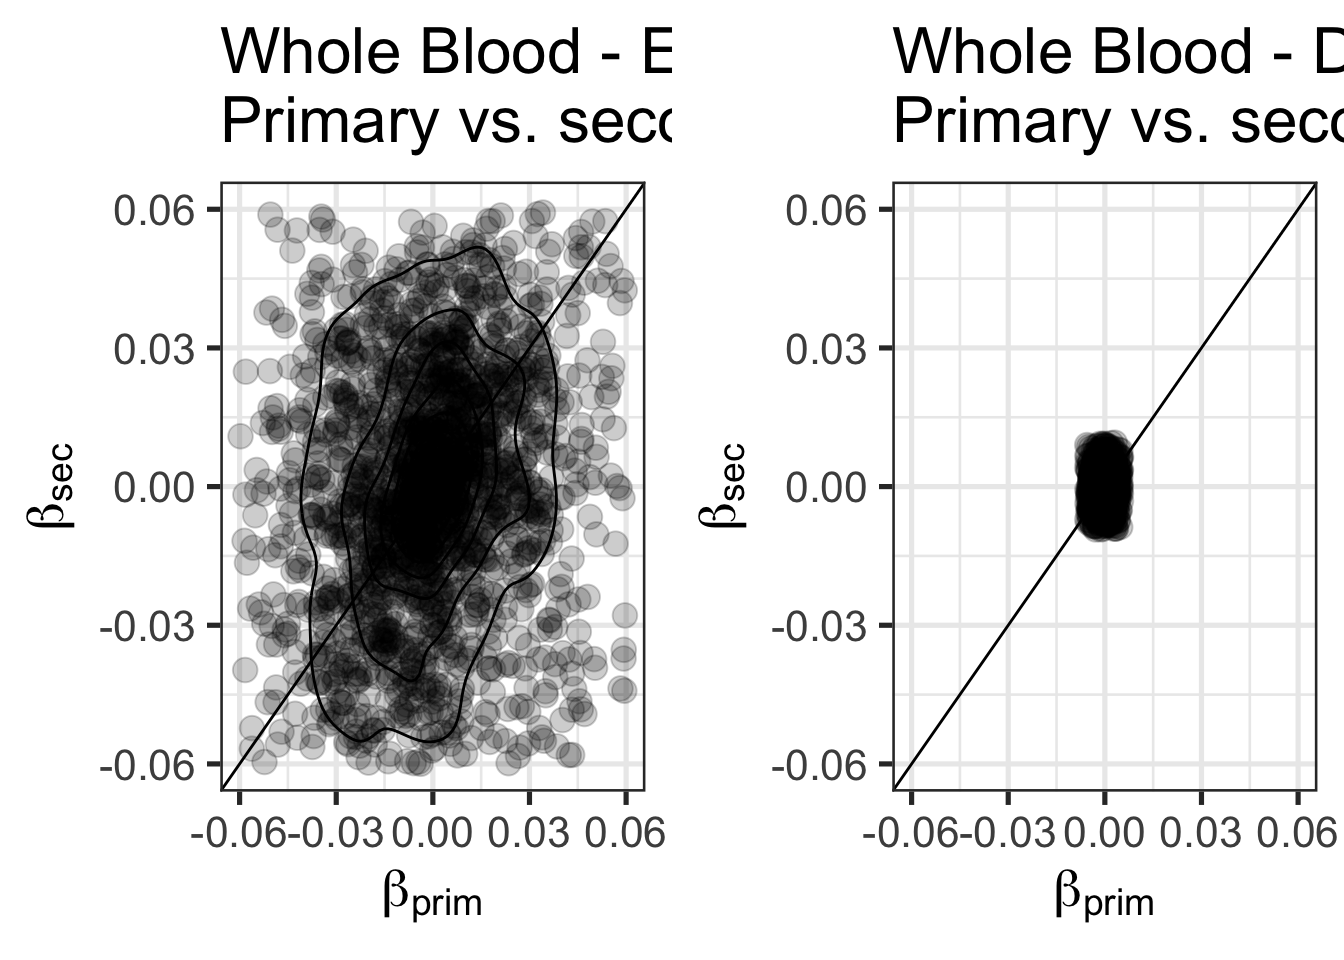
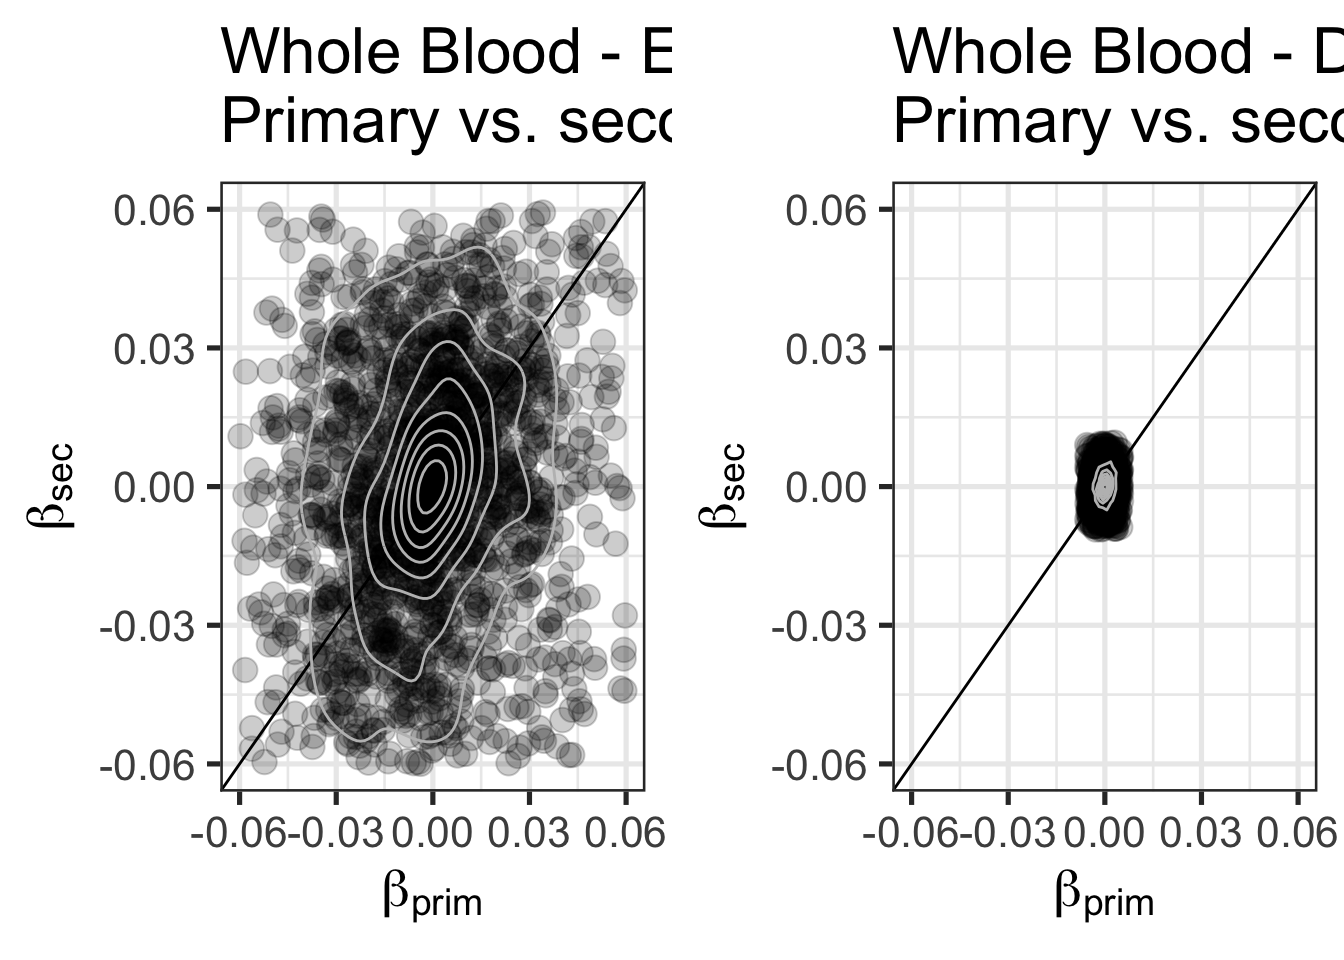
Build site.

diff --git a/docs/pvs_analysis.html b/docs/pvs_analysis.html
@@ -542,16 +542,18 @@ environment
 <div class="panel panel-default">
 <div class="panel-heading">
 <p class="panel-title">
-<a data-toggle="collapse" data-parent="#workflowr-checks" href="#strongRepositoryversionstrongahrefhttpsgithubcomzjiang2betaprimvssecanalysistree1f88d2b45fc6f5b5de1cef80d748de1b355ee6b3targetblank1f88d2ba"> <span class="glyphicon glyphicon-ok text-success" aria-hidden="true"></span> <strong>Repository version:</strong> <a href="https://github.com/zjiang2/beta_prim_vs_sec_analysis/tree/1f88d2b45fc6f5b5de1cef80d748de1b355ee6b3" target="_blank">1f88d2b</a> </a>
+<a data-toggle="collapse" data-parent="#workflowr-checks" href="#strongRepositoryversionstrongahrefhttpsgithubcomzjiang2betaprimvssecanalysistree7bd2afd681149880560d1907e4d31fd164a1457etargetblank7bd2afda"> <span class="glyphicon glyphicon-ok text-success" aria-hidden="true"></span> <strong>Repository version:</strong> <a href="https://github.com/zjiang2/beta_prim_vs_sec_analysis/tree/7bd2afd681149880560d1907e4d31fd164a1457e" target="_blank">7bd2afd</a> </a>
 </p>
 </div>
[2 lines of base64/hex data omitted]
 <div class="panel-body">
 <p>
 Great! You are using Git for version control. Tracking code development and connecting the code version to the results is critical for reproducibility. The version displayed above was the version of the Git repository at the time these results were generated. <br><br> Note that you need to be careful to ensure that all relevant files for the analysis have been committed to Git prior to generating the results (you can use <code>wflow_publish</code> or <code>wflow_git_commit</code>). workflowr only checks the R Markdown file, but you know if there are other scripts or data files that it depends on. Below is the status of the Git repository when the results were generated:
 </p>
 <pre><code>
-working directory clean
+Ignored files:
+    Ignored:    .Rproj.user/
+
 </code></pre>
 <p>
 Note that any generated files, e.g. HTML, png, CSS, etc., are not included in this status report because it is ok for generated content to have uncommitted changes.
@@ -589,6 +591,40 @@ Message
 </tr>
 </thead>
 <tbody>
+<tr>
+<td>
+Rmd
+</td>
+<td>
+<a href="https://github.com/zjiang2/beta_prim_vs_sec_analysis/blob/7bd2afd681149880560d1907e4d31fd164a1457e/analysis/pvs_analysis.Rmd" target="_blank">7bd2afd</a>
+</td>
+<td>
+zjiang2
+</td>
+<td>
+2019-08-06
+</td>
+<td>
+added qqplot, changed scatterplot
+</td>
+</tr>
+<tr>
+<td>
+html
+</td>
+<td>
+<a href="https://rawcdn.githack.com/zjiang2/beta_prim_vs_sec_analysis/b97e93229bdab65e6e62842a8052dbd93991a730/docs/pvs_analysis.html" target="_blank">b97e932</a>
+</td>
+<td>
+zjiang2
+</td>
+<td>
+2019-08-06
+</td>
+<td>
+Build site.
+</td>
+</tr>
 <tr>
 <td>
 Rmd
@@ -667,6 +703,62 @@ markdown analysis
 <p>Problem:</p>
 <p>The beta prime vs secondary plots are not in the same scale.</p>
 <p>e.g.</p>
+<pre class="r"><code>dapg_file_pattern &lt;- &quot;/Users/joshjiang/hakylab/gtex-gwas-analysis/data/dapg_selected_variants/expression/gwas_and_eqtl/DAPG_with_mashr__{tissue}.rds&quot;
+phenotype_lst &lt;- readLines(&quot;/Users/joshjiang/hakylab/gtex-gwas-analysis/data/phenotype_list.txt&quot;)
+metadata &lt;- read_tsv(&quot;/Users/joshjiang/hakylab/gtex-gwas-analysis/data/gwas_metadata.txt&quot;) %&gt;% rename(phenotype=Tag)
+tissue &lt;- &quot;Whole_Blood&quot;
+
+phenotype &lt;- &quot;Astle_et_al_2016_Eosinophil_counts&quot;
+df &lt;- readRDS(glue::glue(dapg_file_pattern))[[phenotype]]
+short_phenotype &lt;- as.character(metadata[metadata$phenotype==phenotype, &quot;new_Phenotype&quot;])
+df_2_eqtl &lt;- df %&gt;%
+  group_by(tissue, phenotype, gene_id) %&gt;%
+  filter(n() == 2) %&gt;%
+  mutate(rank = order(order(abs(eqtl_effect_size), decreasing=TRUE))) %&gt;%
+  mutate(rank = paste0(&quot;rank&quot;, rank)) %&gt;%
+  mutate(beta_gene=gwas_effect_size/eqtl_effect_size) %&gt;%
+  select(tissue, phenotype, gene_id, rank, beta_gene) %&gt;%
+  spread(key=rank, value=beta_gene)
+df_2_eqtl &lt;- df_2_eqtl[df_2_eqtl$rank1 &gt; quantile(df_2_eqtl$rank1, 0.05, na.rm = TRUE) &amp; df_2_eqtl$rank1 &lt; quantile(df_2_eqtl$rank1, 0.95, na.rm = TRUE),]
+df_2_eqtl &lt;- df_2_eqtl[df_2_eqtl$rank2 &gt; quantile(df_2_eqtl$rank2, 0.05, na.rm = TRUE) &amp; df_2_eqtl$rank2 &lt; quantile(df_2_eqtl$rank2, 0.95, na.rm = TRUE),]
+
+plot_title &lt;- &quot;{gsub(pattern=&#39;_&#39;, replacement=&#39; &#39;, x=tissue)} - {gsub(pattern=&#39;_&#39;, replacement=&#39; &#39;, x=short_phenotype)}\nPrimary vs. secondary eQTL&quot; %&gt;% glue::glue()
+
+pp1 &lt;- ggplot(df_2_eqtl, aes(rank1, rank2))
+pp1 &lt;- pp1 + geom_point(alpha=.2, size=4)
+pp1 &lt;- pp1 + theme_bw(base_size=20)
+pp1 &lt;- pp1 + geom_abline(slope=1,intercept=0)
+pp1 &lt;- pp1 + stat_density2d(color = &quot;grey&quot;, contour = TRUE)
+pp1 &lt;- pp1 + ggtitle(plot_title)
+pp1 &lt;- pp1 + xlab(expression(beta[prim])) + ylab(expression(beta[sec]))
+pp1 &lt;- pp1 + xlim(c(-0.06,0.06)) + ylim(c(-0.06,0.06))
+
+phenotype &lt;- &quot;UKB_20002_1094_self_reported_deep_venous_thrombosis_dvt&quot;
+df &lt;- readRDS(glue::glue(dapg_file_pattern))[[phenotype]]
+short_phenotype &lt;- as.character(metadata[metadata$phenotype==phenotype, &quot;new_Phenotype&quot;])
+df_2_eqtl &lt;- df %&gt;%
+  group_by(tissue, phenotype, gene_id) %&gt;%
+  filter(n() == 2) %&gt;%
+  mutate(rank = order(order(abs(eqtl_effect_size), decreasing=TRUE))) %&gt;%
+  mutate(rank = paste0(&quot;rank&quot;, rank)) %&gt;%
+  mutate(beta_gene=gwas_effect_size/eqtl_effect_size) %&gt;%
+  select(tissue, phenotype, gene_id, rank, beta_gene) %&gt;%
+  spread(key=rank, value=beta_gene)
+df_2_eqtl &lt;- df_2_eqtl[df_2_eqtl$rank1 &gt; quantile(df_2_eqtl$rank1, 0.05, na.rm = TRUE) &amp; df_2_eqtl$rank1 &lt; quantile(df_2_eqtl$rank1, 0.95, na.rm = TRUE),]
+df_2_eqtl &lt;- df_2_eqtl[df_2_eqtl$rank2 &gt; quantile(df_2_eqtl$rank2, 0.05, na.rm = TRUE) &amp; df_2_eqtl$rank2 &lt; quantile(df_2_eqtl$rank2, 0.95, na.rm = TRUE),]
+
+plot_title &lt;- &quot;{gsub(pattern=&#39;_&#39;, replacement=&#39; &#39;, x=tissue)} - {gsub(pattern=&#39;_&#39;, replacement=&#39; &#39;, x=short_phenotype)}\nPrimary vs. secondary eQTL&quot; %&gt;% glue::glue()
+
+pp2 &lt;- ggplot(df_2_eqtl, aes(rank1, rank2))
+pp2 &lt;- pp2 + geom_point(alpha=.2, size=4)
+pp2 &lt;- pp2 + theme_bw(base_size=20)
+pp2 &lt;- pp2 + geom_abline(slope=1,intercept=0)
+pp2 &lt;- pp2 + stat_density2d(color = &quot;grey&quot;, contour = TRUE)
+pp2 &lt;- pp2 + ggtitle(plot_title)
+pp2 &lt;- pp2 + xlab(expression(beta[prim])) + ylab(expression(beta[sec]))
+pp2 &lt;- pp2 + xlim(c(-0.06,0.06)) + ylim(c(-0.06,0.06))
+
+grid.arrange(pp1,pp2,nrow=1)</code></pre>
 <p><img src="figure/pvs_analysis.Rmd/unnamed-chunk-1-1.png" width="672" style="display: block; margin: auto;" /></p>
 <p>
 <button type="button" class="btn btn-default btn-xs btn-workflowr btn-workflowr-fig" data-toggle="collapse" data-target="#fig-unnamed-chunk-1-1">
@@ -706,6 +798,61 @@ zjiang2
 </div>
 </div>
 <p>This can be fixed by normalizing the effect sizes (dividing the gwas and eqtl effect sizes by their respective standard deviations) and readjusting the limits:</p>
+<pre class="r"><code>phenotype &lt;- &quot;Astle_et_al_2016_Eosinophil_counts&quot;
+df &lt;- readRDS(glue::glue(dapg_file_pattern))[[phenotype]]
+df[&#39;eqtl_effect_size&#39;] &lt;- df[&#39;eqtl_effect_size&#39;]/sd(df$eqtl_effect_size, na.rm=TRUE)
+df[&#39;gwas_effect_size&#39;] &lt;- df[&#39;gwas_effect_size&#39;]/sd(df$gwas_effect_size, na.rm=TRUE)
+short_phenotype &lt;- as.character(metadata[metadata$phenotype==phenotype, &quot;new_Phenotype&quot;])
+df_2_eqtl &lt;- df %&gt;%
+  group_by(tissue, phenotype, gene_id) %&gt;%
+  filter(n() == 2) %&gt;%
+  mutate(rank = order(order(abs(eqtl_effect_size), decreasing=TRUE))) %&gt;%
+  mutate(rank = paste0(&quot;rank&quot;, rank)) %&gt;%
+  mutate(beta_gene=gwas_effect_size/eqtl_effect_size) %&gt;%
+  select(tissue, phenotype, gene_id, rank, beta_gene) %&gt;%
+  spread(key=rank, value=beta_gene)
+df_2_eqtl &lt;- df_2_eqtl[df_2_eqtl$rank1 &gt; quantile(df_2_eqtl$rank1, 0.05, na.rm = TRUE) &amp; df_2_eqtl$rank1 &lt; quantile(df_2_eqtl$rank1, 0.95, na.rm = TRUE),]
+df_2_eqtl &lt;- df_2_eqtl[df_2_eqtl$rank2 &gt; quantile(df_2_eqtl$rank2, 0.05, na.rm = TRUE) &amp; df_2_eqtl$rank2 &lt; quantile(df_2_eqtl$rank2, 0.95, na.rm = TRUE),]
+
+plot_title &lt;- &quot;{gsub(pattern=&#39;_&#39;, replacement=&#39; &#39;, x=tissue)} - {gsub(pattern=&#39;_&#39;, replacement=&#39; &#39;, x=short_phenotype)}\nPrimary vs. secondary eQTL&quot; %&gt;% glue::glue()
+
+pp1 &lt;- ggplot(df_2_eqtl, aes(rank1, rank2))
+pp1 &lt;- pp1 + geom_point(alpha=.2, size=4)
+pp1 &lt;- pp1 + theme_bw(base_size=20)
+pp1 &lt;- pp1 + geom_abline(slope=1,intercept=0)
+pp1 &lt;- pp1 + stat_density2d(color = &quot;grey&quot;, contour = TRUE)
+pp1 &lt;- pp1 + ggtitle(plot_title)
+pp1 &lt;- pp1 + xlab(expression(beta[prim])) + ylab(expression(beta[sec]))
+pp1 &lt;- pp1 + xlim(c(-2,2)) + ylim(c(-2,2))
+
+phenotype &lt;- &quot;UKB_20002_1094_self_reported_deep_venous_thrombosis_dvt&quot;
+df &lt;- readRDS(glue::glue(dapg_file_pattern))[[phenotype]]
+df[&#39;eqtl_effect_size&#39;] &lt;- df[&#39;eqtl_effect_size&#39;]/sd(df$eqtl_effect_size, na.rm=TRUE)
+df[&#39;gwas_effect_size&#39;] &lt;- df[&#39;gwas_effect_size&#39;]/sd(df$gwas_effect_size, na.rm=TRUE)
+short_phenotype &lt;- as.character(metadata[metadata$phenotype==phenotype, &quot;new_Phenotype&quot;])
+df_2_eqtl &lt;- df %&gt;%
+  group_by(tissue, phenotype, gene_id) %&gt;%
+  filter(n() == 2) %&gt;%
+  mutate(rank = order(order(abs(eqtl_effect_size), decreasing=TRUE))) %&gt;%
+  mutate(rank = paste0(&quot;rank&quot;, rank)) %&gt;%
+  mutate(beta_gene=gwas_effect_size/eqtl_effect_size) %&gt;%
+  select(tissue, phenotype, gene_id, rank, beta_gene) %&gt;%
+  spread(key=rank, value=beta_gene)
+df_2_eqtl &lt;- df_2_eqtl[df_2_eqtl$rank1 &gt; quantile(df_2_eqtl$rank1, 0.05, na.rm = TRUE) &amp; df_2_eqtl$rank1 &lt; quantile(df_2_eqtl$rank1, 0.95, na.rm = TRUE),]
+df_2_eqtl &lt;- df_2_eqtl[df_2_eqtl$rank2 &gt; quantile(df_2_eqtl$rank2, 0.05, na.rm = TRUE) &amp; df_2_eqtl$rank2 &lt; quantile(df_2_eqtl$rank2, 0.95, na.rm = TRUE),]
+
+plot_title &lt;- &quot;{gsub(pattern=&#39;_&#39;, replacement=&#39; &#39;, x=tissue)} - {gsub(pattern=&#39;_&#39;, replacement=&#39; &#39;, x=short_phenotype)}\nPrimary vs. secondary eQTL&quot; %&gt;% glue::glue()
+
+pp2 &lt;- ggplot(df_2_eqtl, aes(rank1, rank2))
+pp2 &lt;- pp2 + geom_point(alpha=.2, size=4)
+pp2 &lt;- pp2 + theme_bw(base_size=20)
+pp2 &lt;- pp2 + geom_abline(slope=1,intercept=0)
+pp2 &lt;- pp2 + stat_density2d(color = &quot;grey&quot;, contour = TRUE)
+pp2 &lt;- pp2 + ggtitle(plot_title)
+pp2 &lt;- pp2 + xlab(expression(beta[prim])) + ylab(expression(beta[sec]))
+pp2 &lt;- pp2 + xlim(c(-2,2)) + ylim(c(-2,2))
+
+grid.arrange(pp1,pp2,nrow=1)</code></pre>
 <p><img src="figure/pvs_analysis.Rmd/unnamed-chunk-2-1.png" width="672" style="display: block; margin: auto;" /></p>
 <p>
 <button type="button" class="btn btn-default btn-xs btn-workflowr btn-workflowr-fig" data-toggle="collapse" data-target="#fig-unnamed-chunk-2-1">
@@ -744,8 +891,54 @@ zjiang2
 </table>
 </div>
 </div>
-<p>An interesting observation is that the variance of <span class="math inline">\(\beta_{sec}\)</span> is higher than that of <span class="math inline">\(\beta_{prim}\)</span>. This is obvious if you zoom out of both of the above graphs.</p>
+<p>An interesting observation is that the variance of <span class="math inline">\(\beta_{sec}\)</span> is higher than that of <span class="math inline">\(\beta_{prim}\)</span>. This is obvious if you zoom out of both of the above graphs:</p>
+<pre class="r"><code>pp1 &lt;- pp1 + xlim(c(-4,4)) + ylim(c(-4,4))
+
+pp2 &lt;- pp2 + xlim(c(-4,4)) + ylim(c(-4,4))
+
+grid.arrange(pp1,pp2,nrow=1)</code></pre>
 <p><img src="figure/pvs_analysis.Rmd/unnamed-chunk-3-1.png" width="672" style="display: block; margin: auto;" /></p>
+<p>
+<button type="button" class="btn btn-default btn-xs btn-workflowr btn-workflowr-fig" data-toggle="collapse" data-target="#fig-unnamed-chunk-3-1">
+Past versions of unnamed-chunk-3-1.png
+</button>
+</p>
+<div id="fig-unnamed-chunk-3-1" class="collapse">
+<div class="table-responsive">
+<table class="table table-condensed table-hover">
+<thead>
+<tr>
+<th>
+Version
+</th>
+<th>
+Author
+</th>
+<th>
+Date
+</th>
+</tr>
+</thead>
+<tbody>
+<tr>
+<td>
+<a href="https://github.com/zjiang2/beta_prim_vs_sec_analysis/blob/b97e93229bdab65e6e62842a8052dbd93991a730/docs/figure/pvs_analysis.Rmd/unnamed-chunk-3-1.png" target="_blank">b97e932</a>
+</td>
+<td>
+zjiang2
+</td>
+<td>
+2019-08-06
+</td>
+</tr>
+</tbody>
+</table>
+</div>
+</div>
+<p>Here is qqplot for one phenotype:</p>
+<pre class="r"><code>qqplot(x=df_2_eqtl$rank1,y=df_2_eqtl$rank2,xlab=expression(beta[prim]),ylab=expression(beta[sec]),main=plot_title)
+abline(a=0,b=1,col=&quot;grey&quot;)</code></pre>
+<p><img src="figure/pvs_analysis.Rmd/unnamed-chunk-4-1.png" width="672" style="display: block; margin: auto;" /></p>
 <br>
 <p>
 <button type="button" class="btn btn-default btn-workflowr btn-workflowr-sessioninfo" data-toggle="collapse" data-target="#workflowr-sessioninfo" style="display: block;">
